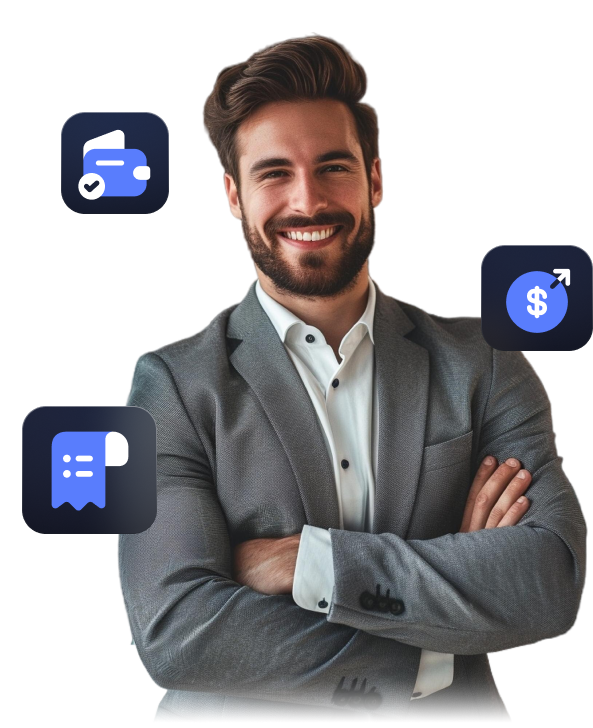
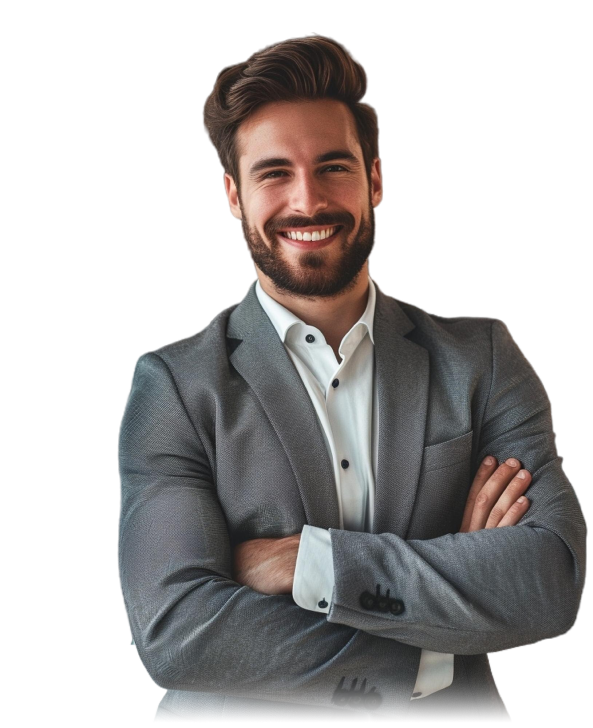
add animation and carousel

Changed region(s): [[0.0304, 0.544, 0.2732, 0.7555], [0.0911, 0.1511, 0.3035, 0.3022], [0.7892, 0.3324, 1.0, 0.4835]]

diff --git a/therus-network/index.html b/therus-network/index.html
@@ -21,20 +21,20 @@
             <nav class="navbar navbar-expand-lg navbar-light fixed-top shadow-sm" id="mainNav">
                 <div class="container px-5">
                     <a class="navbar-brand fw-bold" href="#page-top"><img src="./assets/img/tnw-logo.png"></a>
-                    <button class="text-white navbar-toggler" type="button" data-bs-toggle="collapse" data-bs-target="#navbarResponsive" aria-controls="navbarResponsive" aria-expanded="false" aria-label="Toggle navigation">
+                    <button disabled class="text-white navbar-toggler" type="button" data-bs-toggle="collapse" data-bs-target="#navbarResponsive" aria-controls="navbarResponsive" aria-expanded="false" aria-label="Toggle navigation">
                         <i class="bi-list"></i>
                     </button>
                     <div class="collapse navbar-collapse" id="navbarResponsive">
                         <ul class="navbar-nav ms-auto me-4 my-3 my-lg-0">
-                            <li class="nav-item"><a class="text-white nav-link me-lg-3" href="#features">Home</a></li>
-                            <li class="nav-item"><a class="text-white nav-link me-lg-3" href="#download">Compañía</a></li>
-                            <li class="nav-item"><a class="text-white nav-link me-lg-3" href="#features">Productos</a></li>
-                            <li class="nav-item"><a class="text-white nav-link me-lg-3" href="#download">Oportunidades</a></li>
-                            <li class="nav-item"><a class="text-white nav-link me-lg-3" href="#features">Eventos</a></li>
-                            <li class="nav-item"><a class="text-white nav-link me-lg-3" href="#download">Blog</a></li>
-                            <li class="nav-item"><a class="text-white nav-link me-lg-3" href="#download">Contacto</a></li>
+                            <li class="nav-item"><a disabled class="text-white nav-link me-lg-3" >Home</a></li>
+                            <li class="nav-item"><a disabled class="text-white nav-link me-lg-3" >Compañía</a></li>
+                            <li class="nav-item"><a disabled class="text-white nav-link me-lg-3" >Productos</a></li>
+                            <li class="nav-item"><a disabled class="text-white nav-link me-lg-3" >Oportunidades</a></li>
+                            <li class="nav-item"><a disabled class="text-white nav-link me-lg-3" >Eventos</a></li>
+                            <li class="nav-item"><a disabled class="text-white nav-link me-lg-3" >Blog</a></li>
+                            <li class="nav-item"><a disabled class="text-white nav-link me-lg-3" >Contacto</a></li>
                         </ul>
-                        <button class="btn btn-primary  py-3 px-4" data-bs-toggle="modal" data-bs-target="#feedbackModal">
+                        <button disabled class="btn btn-primary  py-3 px-4" data-bs-toggle="modal" data-bs-target="#feedbackModal">
                             <span class="d-flex align-items-center">
                                 <span class="small">Login</span>
                             </span>
@@ -52,12 +52,12 @@
                                 <p class="lead subtitle-hero text-white">Innovación, sostenibilidad y oportunidades globales</p>
                                 <h1 class="display-1 lh-1 mb-3 text-white">Un nuevo enfoque en network marketing.</h1>
                                 <p class="lead fw-normal  text-white mb-5"><b>Therus Network</b>, parte del holding empresarial <b>Levap Corp</b>, redefine el Network Marketing con una innovadora oferta de productos y servicios enfocados en el bienestar financiero. Con presencia en más de 25 países, estamos comprometidos con el crecimiento sostenible y el éxito compartido</p>
-                                <a class="btn btn-primary py-3 px-4 " href="https://startbootstrap.com/theme/new-age" target="_blank">Sea parte de la red</a>
+                                <button disabled class="btn btn-primary py-3 px-4 mx-auto text-center"> Sea parte de la red </button>
                             </div>
                         </div>
                         <div class="col-lg-5">
                             <!-- Masthead device mockup feature-->
-                            <figure><img class="img-fluid" src="./assets/img/hero-business-man.png"></figure>
+                            <figure style="position: relative;"><img class="img-fluid" src="./assets/img/hero-business-man.png"><img class="icons-float img-fluid float" src="./assets/img/hero-icons-float.png"></figure>
                         </div>
                     </div>
                 </div>
@@ -133,7 +133,7 @@
                             </div>
 
                             <div class="container ">
-                                <button class="btn btn-primary py-3 px-4 mx-auto text-center"> Ver más <span> <img src="./assets/img/icon/arrow-right.png"></svg></span>
+                                <button disabled class="btn btn-primary py-3 px-4 mx-auto text-center"> Ver más <span> <img src="./assets/img/icon/arrow-right.png"></svg></span></button>
                             </div>
                        
                     </div>
@@ -142,8 +142,8 @@
         <section id="features" class="mt-5 pt-5">
             <div class="container px-5 mx-5 pt-5 mx-auto">
                                 <div class="row">
-                                    <div class="col-md-5 text-end">
-                                        <img class="img-fluid pl-3" src="./assets/img/therus-logo.png">
+                                    <div class="col-md-5 text-md-end">
+                                        <img class="img-fluid pb-3" src="./assets/img/therus-logo.png">
                                     </div>
                                     <div class="col-md-7 mt-2 px-5">
                                          <h6 class="therus-sub text-lg-start text-white">Producto</h6>
@@ -171,7 +171,7 @@
                                 <div class="button-screen row justify-content-center">
                                     
                                     <div class="col-md-6 align-self-center text-center">
-                                        <button class="btn btn-primary py-3 px-4 mx-auto text-center"> Ver más sobre Therus Capital <span> <img src="./assets/img/icon/arrow-right.png"></svg></span>
+                                        <button disabled class="btn btn-primary py-3 px-4 mx-auto text-center"> Ver más sobre Therus Capital <span> <img src="./assets/img/icon/arrow-right.png"></svg></span></button>
 
                                     </div>
 
@@ -181,6 +181,68 @@
                                         
             </div>
         </section>
+
+        <section>
+            <div class="container">
+                <div class="row">
+                    <div id="carouselExampleInterval" class="carousel slide" data-bs-ride="carousel">
+                      <div class="carousel-inner">
+                        <div class="carousel-item active" data-bs-interval="10000">
+                          <div class="card mb-3">
+                              <div class="row no-gutters">
+                                <div class="col-md-4">
+                                  <img src="./assets/img/carousel1.png" class="card-img" alt="...">
+                                </div>
+                                <div class="col-md-8">
+                                  <div class="card-body mt-5">
+                                    <h5 class="card-title">Descubre cómo Giovanni transformó su vida financiera y profesional utilizando los servicios educativos de Therus Network</h5>
+                                    <p class="card-text mt-3 text-muted">Therus Network me ha dado las herramientas y el conocimiento que necesitaba para transformar mi vida. Ahora me siento más seguro y preparado para el futuro.</p>
+                                    <button disabled class="btn btn-link py-3 px-4 mx-auto text-center"> Ver historia completa <span> <img src="./assets/img/icon/arrow-right.png"></svg></span></button>
+                                  </div>
+                                </div>
+                              </div>
+                            </div>
+                        </div>
+                        <div class="carousel-item" data-bs-interval="2000">
+                          <div class="card mb-3">
+                              <div class="row no-gutters">
+                                <div class="col-md-4">
+                                  <img src="./assets/img/carousel1.png" class="card-img" alt="...">
+                                </div>
+                                <div class="col-md-8">
+                                  <div class="card-body mt-5">
+                                    <h5 class="card-title">Descubre cómo Giovanni transformó su vida financiera y profesional utilizando los servicios educativos de Therus Network</h5>
+                                    <p class="card-text mt-3 text-muted">Therus Network me ha dado las herramientas y el conocimiento que necesitaba para transformar mi vida. Ahora me siento más seguro y preparado para el futuro.</p>
+                                    <button disabled class="btn btn-link py-3 px-4 mx-auto text-center"> Ver historia completa <span> <img src="./assets/img/icon/arrow-right.png"></svg></span></button>
+                                  </div>
+                                </div>
+                              </div>
+                            </div>
+                        </div>
+                      </div>
+                      <button class="carousel-control-prev" type="button" data-bs-target="#carouselExampleInterval" data-bs-slide="prev">
+                        <span class="carousel-control-prev-icon" aria-hidden="true"></span>
+                        <span class="visually-hidden">Anterior</span>
+                      </button>
+                      <button class="carousel-control-next" type="button" data-bs-target="#carouselExampleInterval" data-bs-slide="next">
+                        <span class="carousel-control-next-icon" aria-hidden="true"></span>
+                        <span class="visually-hidden">Siguiente</span>
+                      </button>
+                    </div>
+                </div>
+                <div class="mt-5 row justify-content-center">
+                                    
+                    <div class="col-md-6 align-self-center text-center">
+                        <button disabled class="btn btn-primary py-3 px-4 mx-auto text-center"> Ver más historias de éxito <span> <img src="./assets/img/icon/arrow-right.png"></svg></span></button>
+
+                    </div>
+
+                </div>
+                
+            </div>
+            
+        </section>
+        
 
 
         <!-- Footer-->
@@ -202,7 +264,7 @@
                 <div class="modal-content">
                     <div class="modal-header bg-gradient-primary-to-secondary p-4">
                         <h5 class="modal-title font-alt text-white" id="feedbackModalLabel">Send feedback</h5>
-                        <button class="btn-close btn-close-white" type="button" data-bs-dismiss="modal" aria-label="Close"></button>
+                        <button disabled class="btn-close btn-close-white" type="button" data-bs-dismiss="modal" aria-label="Close"></button>
                     </div>
                     <div class="modal-body border-0 p-4">
                         <!-- * * * * * * * * * * * * * * *-->
@@ -256,7 +318,7 @@
                             <!-- an error submitting the form-->
                             <div class="d-none" id="submitErrorMessage"><div class="text-center text-danger mb-3">Error sending message!</div></div>
                             <!-- Submit Button-->
-                            <div class="d-grid"><button class="btn btn-primary rounded-pill btn-lg disabled" id="submitButton" type="submit">Submit</button></div>
+                            <div class="d-grid"><button disabled class="btn btn-primary rounded-pill btn-lg disabled" id="submitButton" type="submit">Submit</button></div>
                         </form>
                     </div>
                 </div>

diff --git a/therus-network/css/styles.css b/therus-network/css/styles.css
@@ -11316,11 +11316,67 @@ line-height: 46px; /* 127.778% */
   margin-top: 250px;
 }
 
+.carousel .card {
+  border-radius: 12px;
+  border: 1px solid rgba(255, 255, 255, 0.40);
+  background: radial-gradient(135.35% 94.35% at 50% 3.71%, rgba(55, 55, 79, 0.20) 0%, rgba(20, 20, 29, 0.60) 100%);
+  color: #fff;
+}
+
+.btn-link {
+  text-decoration: none;
+}
+
+.text-muted {
+  color: #D0CFCF;
+}
+
+.float {
+  transform: translatey(0px);
+  animation: float 6s ease-in-out infinite;
+}
+
+.icons-float {
+  position: absolute;
+  top:0;
+  right: 0;
+}
+
+
+/*animation*/
+@keyframes float {
+  0% {
+    transform: translatey(0px);
+  }
+  50% {
+    transform: translatey(-20px);
+  }
+  100% {
+    transform: translatey(0px);
+  }
+}
+
+
 @media (max-width: 500px) {
   .hero-banner {
-    background-size: cover;
+    background-size: auto;
 }
 .display-1 {
     font-size: 38px;
+}
+.card-services {
+    width: 320px;
+    max-width: 320px;
+}
+.screen-guy {
+  background-size: 620px;
+  background-position: left 340px;
+  min-height: 640px;
+}
+.therus-title {
+  font-size: 30px;
+}
+.services {
+    padding-bottom: 0px;
 }
 }
